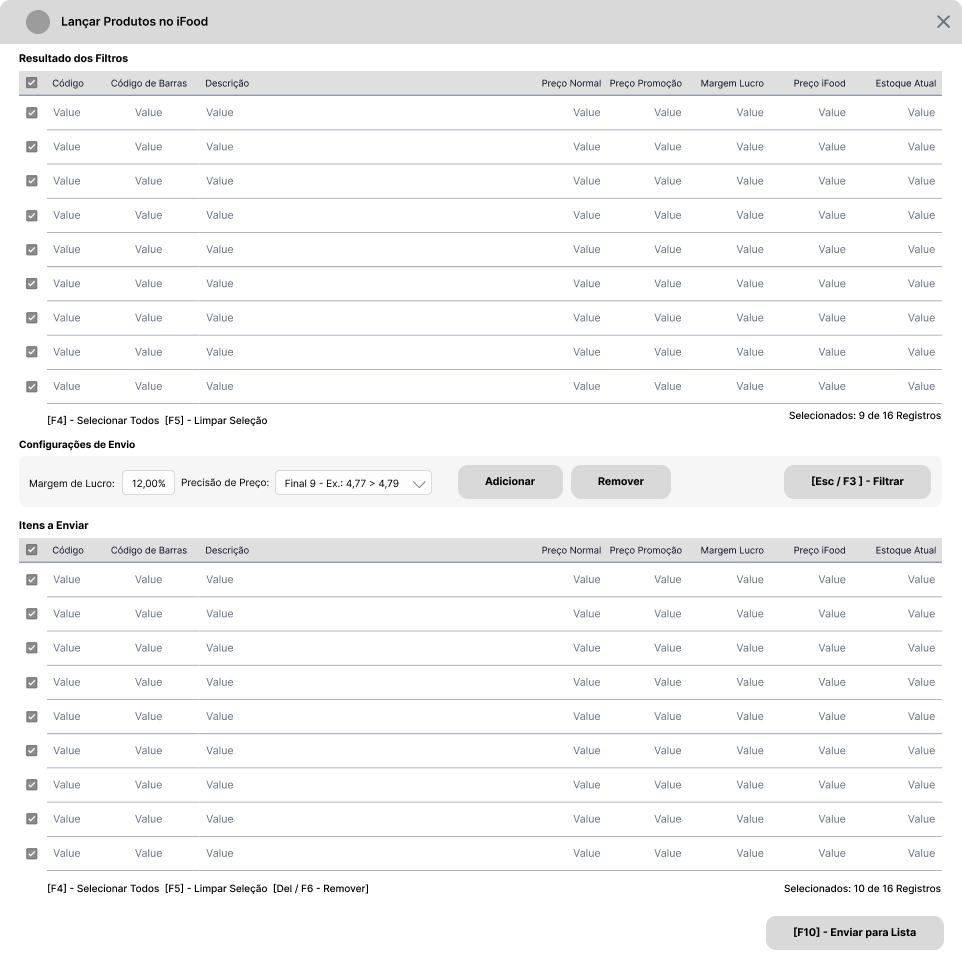
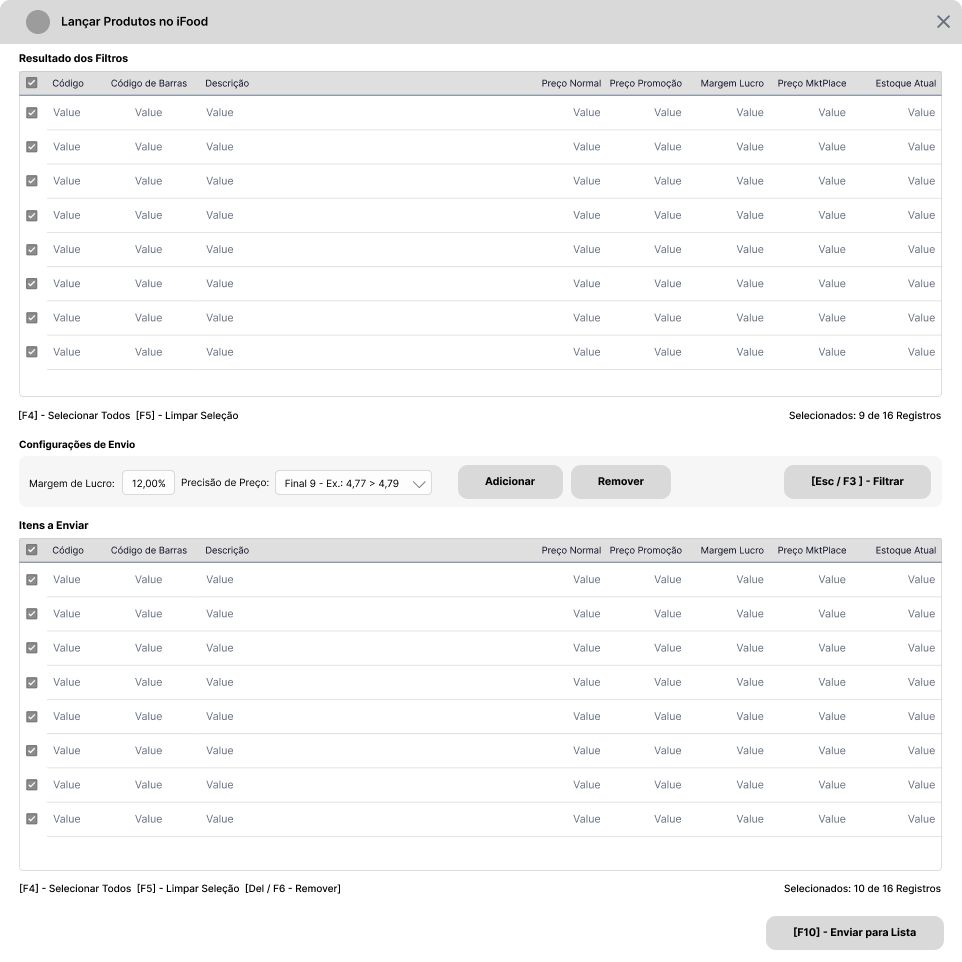
Add new documents
Add Marketplaces documentation
Add new mockup screens

diff --git a/Marketplaces.md b/Marketplaces.md
@@ -1,0 +1,79 @@
+# Introdução :wave:
+
+O presente documento objetiva descrever os requisitos básicos para implementação de Recursos para Gerenciamento de Produtos a enviar para Marketplaces. Em suma, o recurso atenderá a maioria das integrações e os requisitos são genéricos de preparação do Sistema Ganso.
+
+![Integração Tray](./Integration02.png)
+
+## Cadastro de Produtos :label:
+
+Nesta Seção são descritos os recursos necessários a implementar no Cadastro de Produtos para controle.
+
+| Elemento  | Descrição                 | Regra de Negócio                                                                                                                                                                                                                                                                                                                                                  |
+| :-------- | :------------------------ | :---------------------------------------------------------------------------------------------------------------------------------------------------------------------------------------------------------------------------------------------------------------------------------------------------------------------------------------------------------------- |
+| Parâmetro | Não Vender em Marketplace | Parâmetro do Produto que restinge o Envio do mesmo ao Marketplace. Ativando este parâmetro, o Produto não deve ser listado na Tela de Envio/Gerenciamento por padrão, e não deve ser enviado por outros meios. Se por decisão do usuário o produto precisar ser enviado, é necessário desativar este parâmetro ou gerar o envio através da Tela de Gerenciamento. |
+| Campo     | Enviado para Marketplace  | Campo para identificar se o Produto pertence à Lista de Produtos do Marketplace. Esta informação deve ser exibida em local de fácil visualização, e será utilizada como filtro na Tela de Envio/Gerenciamento de Produtos.                                                                                                                                        |
+| Campo     | Status Marketplace        | Campo para identificar se o Produto está Ativo ou Inativo no Marketplace. Esta informação deve ser exibida em local de fácil visualização, e será utilizada como filtro na Tela de Envio/Gerenciamento de Produtos.                                                                                                                                               |
+
+**:bulb: Nota:** Como Regra de Negócio primária, os campos acima só devem ser exibidos e gerenciados se houver **Integração** ativada com algum **Marketplace**.
+
+[Voltar ao Início](#introdução-wave)
+
+## Nova Tela - Gerenciamentos de Produtos do Marketplace :package:
+
+Para que o Usuário obtenha melhor experiência de controle dos Produtos que deseja vender em Marketplaces, é necessário a criação de uma Tela de Gerenciamento.
+Esta Tela de Gerenciamento, assemelha-se à Tela de Agrupamento de Promoções Individuais, cuja principal função é compor uma **Lista de Produtos**, com possibilidade de utilizar Filtros.
+
+### Recursos da Tela Principal :desktop_computer:
+
+A Tela Principal deve exibir a Lista de Produtos já enviados ao Marketplace para permitir que o Usuário faça a Gestão através de determinadas ações. Deve conter os elementos descritos a seguir.
+
+1. Incluir uma _Grid_ nomeada de **Produtos do Marketplace** que deve exibir os Produtos já contidos na Lista com os seguintes dados:
+
+| Campo                         | Descritivo                                                    | Regra de Negócio                                                                                                               |
+| :---------------------------- | :------------------------------------------------------------ | :----------------------------------------------------------------------------------------------------------------------------- |
+| Caixa de Seleção              | Caixa de Seleção do Item                                      | Selecionado, Não Selecionado                                                                                                   |
+| Código Interno                | Código Interno do Produto                                     | -                                                                                                                              |
+| Código de Barras              | Código de Barras Padrão do Produto                            | -                                                                                                                              |
+| Descrição                     | Descrição Completa do Produto                                 | -                                                                                                                              |
+| Preço Normal                  | Preço de Venda Normal                                         | Preço de Venda Normal do Produto.                                                                                              |
+| Preço Promoção                | Preço de Venda de Promoção                                    | Preço de Promoção enviado, se houve promoção durante o envio.                                                                  |
+| Margem de Lucro %             | Margem de Lucro do Produto                                    | Margem de Lucro enviada. Permitir digitação na própria colunas. Solicitar [Chave de Acesso Restrito AR04](#acessos-restritos). |
+| Preço Marketplace             | Preço de Venda para o Marketplace                             | Preço de Venda enviado conforme o calculado pela Margem e que está atualmente na Plataforma.                                   |
+| Estoque Atual                 | Estoque Atual do Produto                                      | Quantidade em Estoque enviada.                                                                                                 |
+| Status Marketplace            | Situação do Produto na Plataforma Marketplace (Ativo/Inativo) | Status Atual do Produto na Plataforma Marketplace.                                                                             |
+| Marca, Seção, Grupo, Subgrupo | Segmentação do Produto                                        | Dados Recomendados, mas não são obrigatórios.                                                                                  |
+
+2. Acima da _Grid_ anterior, incluir um campo para **Inserção Rápida** de Produto com as funcionalidades de:
+
+   - Atalho de Teclado para ativar a Função, por exemplo: **[F1] - Inserção Rápida**.
+   - Digitação e adição do Produto ao teclar `<Enter>`.
+   - Opção de troca de filtro entre "Código" e "Código de Barras" através da tecla `<Espaço>`.
+   - Permitir utilização da Consulta `<F2>` padrão do Sistema.
+   > O Produto digitado deve ser inserido na lista com as Configurações de Estoque e Margem de Lucro padrões dos Parâmetros.
+
+3. Abaixo da _Grid_, incluir legenda para as ações que podem ser executadas nos itens:
+
+| Elemento                       | Descritivo da Ação                                      | Regra de Negócio                                                            |
+| :----------------------------- | :------------------------------------------------------ | :-------------------------------------------------------------------------- |
+| Atalho [F3] - Pesquisar        | Acionar a Pesquisa na coluna selecionada                | Exibir um diálogo com um campo para usuário digitar o critério de pesquisa. |
+| Atalho [F4] - Selecionar Todos | Inverter a Seleção ou Selecionar todos os itens da Grid | -                                                                           |
+| Atalho [F5] - Limpar Seleção   | Limpar a Seleção da Grid                                | -                                                                           |
+| Atalho [F6] - Excluir          | Excluir os Itens Selecionados na Grid                   | Solicitar Confirmação e [Chave de Acesso Restrito AR01](#acessos-restritos) |
+| Atalho [F7] - Ativar/Desativar | Ativar ou Desativar Itens Selecionados na Grid          | Solicitar Confirmação e [Chave de Acesso Restrito AR02](#acessos-restritos) |
+| Caixa de Seleção               | Aplicar alteração as demais selecionados \*             | Solicitar Confirmação e [Chave de Acesso Restrito AR06](#acessos-restritos) |
+| Texto                          | Exibição do Número de Itens selecionados do Total       | Exibir no formato x de y registros. Ex.: Selecionados: 10 de 18 registros.  |
+
+4. No rodapé da Tela, incluir um grupo de Funções Rápidas para **Reprocessar Estoque e Preços** dos Itens da Grid, e ações padrão que são:
+
+| Elemento            | Descritivo              | Regra de Negócio                                                                                                                                                                                                                                                                         |
+| :------------------ | :---------------------- | :--------------------------------------------------------------------------------------------------------------------------------------------------------------------------------------------------------------------------------------------------------------------------------------- |
+| Campo               | Estoque Padrão          | Campo para permitir alterar o Estoque aplicado aos itens                                                                                                                                                                                                                                 |
+| Campo               | Margem de Lucro         | Campo para permitir alterar a Margem aplicada aos itens                                                                                                                                                                                                                                  |
+| Caixa de Combinação | Precisão de Preço       | Opções para configurar a Precisão do Preço de Venda Marketplace, como por exemplo, arredondamento de casas decimais. Disponibilizar opções como: <br>Final 9 - Ex.: 4,77 > 4,79 <br>Final 0 - Ex.: 4,77 > 4,70 <br>Próx. Inteiro - Ex.: 4,77 > 5,00 <br>Valor Inteiro - Ex.: 4,77 > 4,00 |
+| Botão de Ação       | Aplicar                 | Botão para Aplicar as configurações de Estoque, Margem de Lucro e Precisão de Preço aos itens **selecionados** na Grid.                                                                                                                                                                  |
+| Botão de Ação       | Editar/Gravar           | Botão para Editar e Gravar alterações na Lista de Produtos.                                                                                                                                                                                                                              |
+| Botão de Ação       | [F10] - Lançar Produtos | Botão para Acionar a Tela de Consulta e Lançamento de Produtos.                                                                                                                                                                                                                                     |
+
+Ao final da implementação dos recursos, o resultado será semelhante a imagem abaixo:
+
+![Protótipo de Tela](./Main-Screen02.png)
